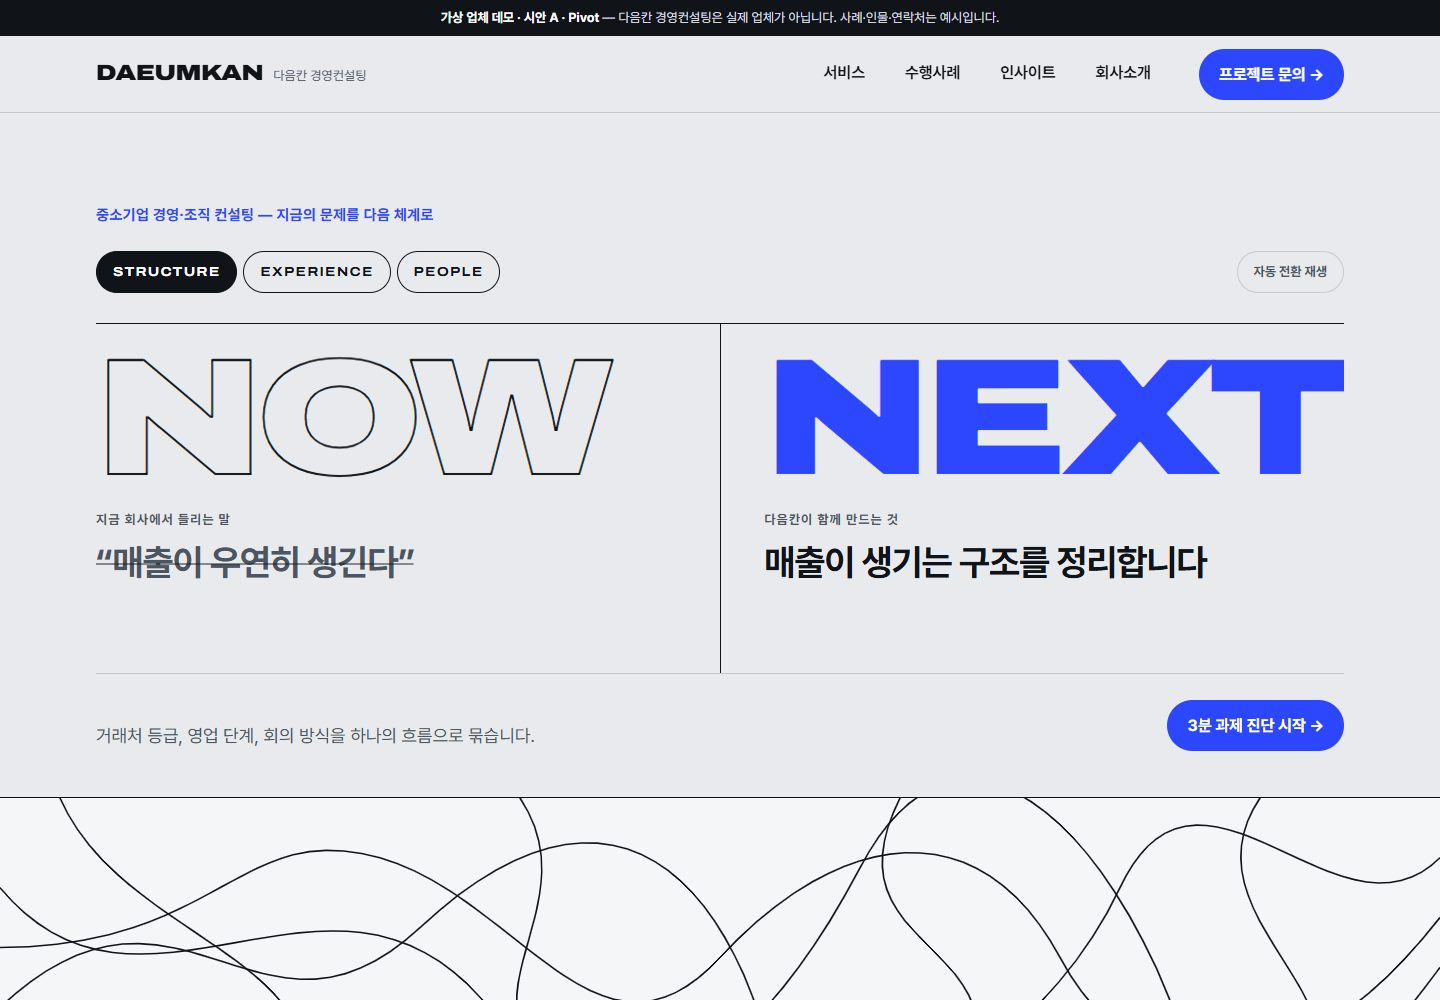
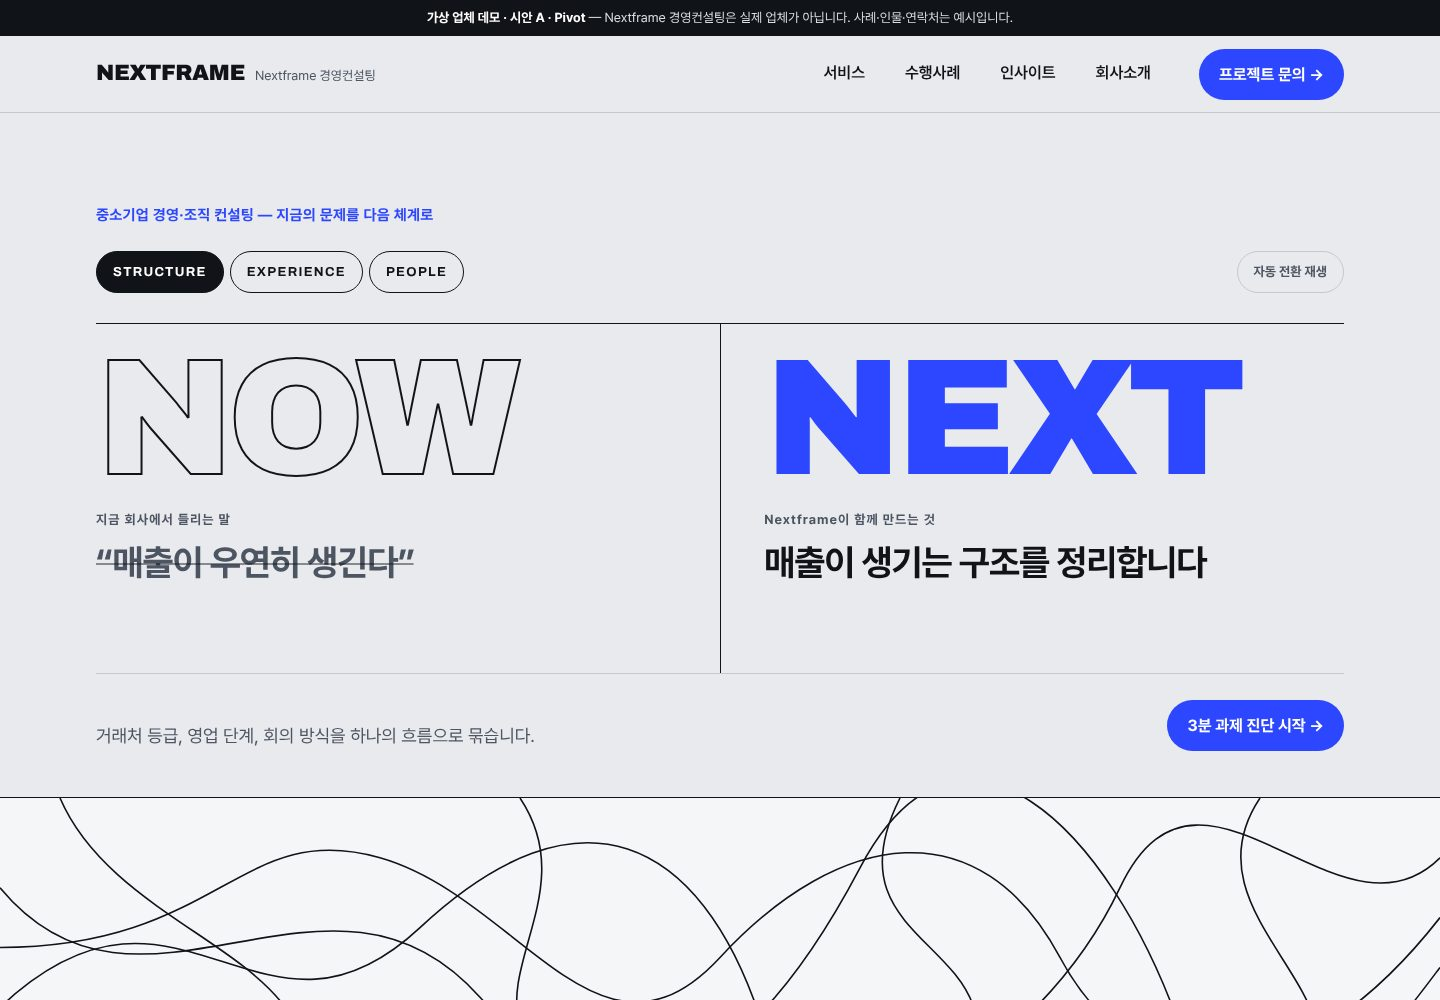
feat(pro-consulting): register Pivot, Sidebook and Atlas as finished sites (#67)
Claude-Session: https://claude.ai/code/session_01XPPDvbBrcGte1ifdMXesbQ

diff --git a/docs/history.md b/docs/history.md
@@ -94,3 +94,4 @@
 - 2026-10-11: Sidebook 인사이트를 대표 글+카드 6편(레터·기획조사·소식, 핵심 세 가지·저자·태그·분류 필터)으로 확장, 회사소개는 별도 섹션으로 분리. Sidebook 회사 소개 페이지도 왼쪽 고정 메뉴바+오른쪽 본문 구조로 변경(모바일 서랍 메뉴).
 - 2026-10-11: Sidebook 왼쪽 메뉴 현재 위치 표시 오류 수정. 같은 주소를 공유하던 하위 메뉴가 함께 켜지거나 엉뚱한 항목이 켜지던 문제를 스크롤 위치 기준 단일 판정으로 바꾸고, 상위 메뉴 강조·하위 항목(필터/펼친 사례) 연동·'지금 보는 곳' 표시 추가.
 - 2026-10-11: Sidebook 회사 소개 페이지 왼쪽 메뉴 위치 표시 수정(컨설턴트 영역에서 '인증과 기록'이 켜지던 문제). 스크롤 위치 기준 판정·페이지 끝 처리·'지금 보는 곳' 표시 추가.
+- 2026-10-11: pro-consulting 시안 3개를 완성 사이트로 등록(portfolio kind=site, sites.json 3변형, backlog done), Nextframe 화면으로 썸네일 재촬영.

diff --git a/docs/decisions.md b/docs/decisions.md
@@ -1,5 +1,8 @@
 # 결정 기록 (최신이 위)
 
+## 2026-10-11 — 컨설팅 시안 3개 모두 완성 사이트로 등록
+- 사용자가 pro-consulting 시안 3개(pivot·sidebook·atlas)를 모두 배포하라고 결정. 현재 단일 페이지+회사 소개 페이지 구성 그대로 포트폴리오에 "완성 사이트"로 올리고, 대표는 pivot, 나머지는 대안 변형으로 관리한다. 별도 Next.js 앱 전환은 하지 않는다.
+
 ## 2026-10-11 — 컨설팅 가상 업체명 변경
 - 사용자 요청으로 "다음칸"을 영문 이름 Nextframe(넥스트프레임) 경영컨설팅으로 바꾼다. NOW → NEXT, "지금의 문제를 다음 체계(frame)로"라는 시안 메시지와 맞춘다. 로고·영문 표기 NEXTFRAME, 메일 예시 hello@nextframe.example.
 
